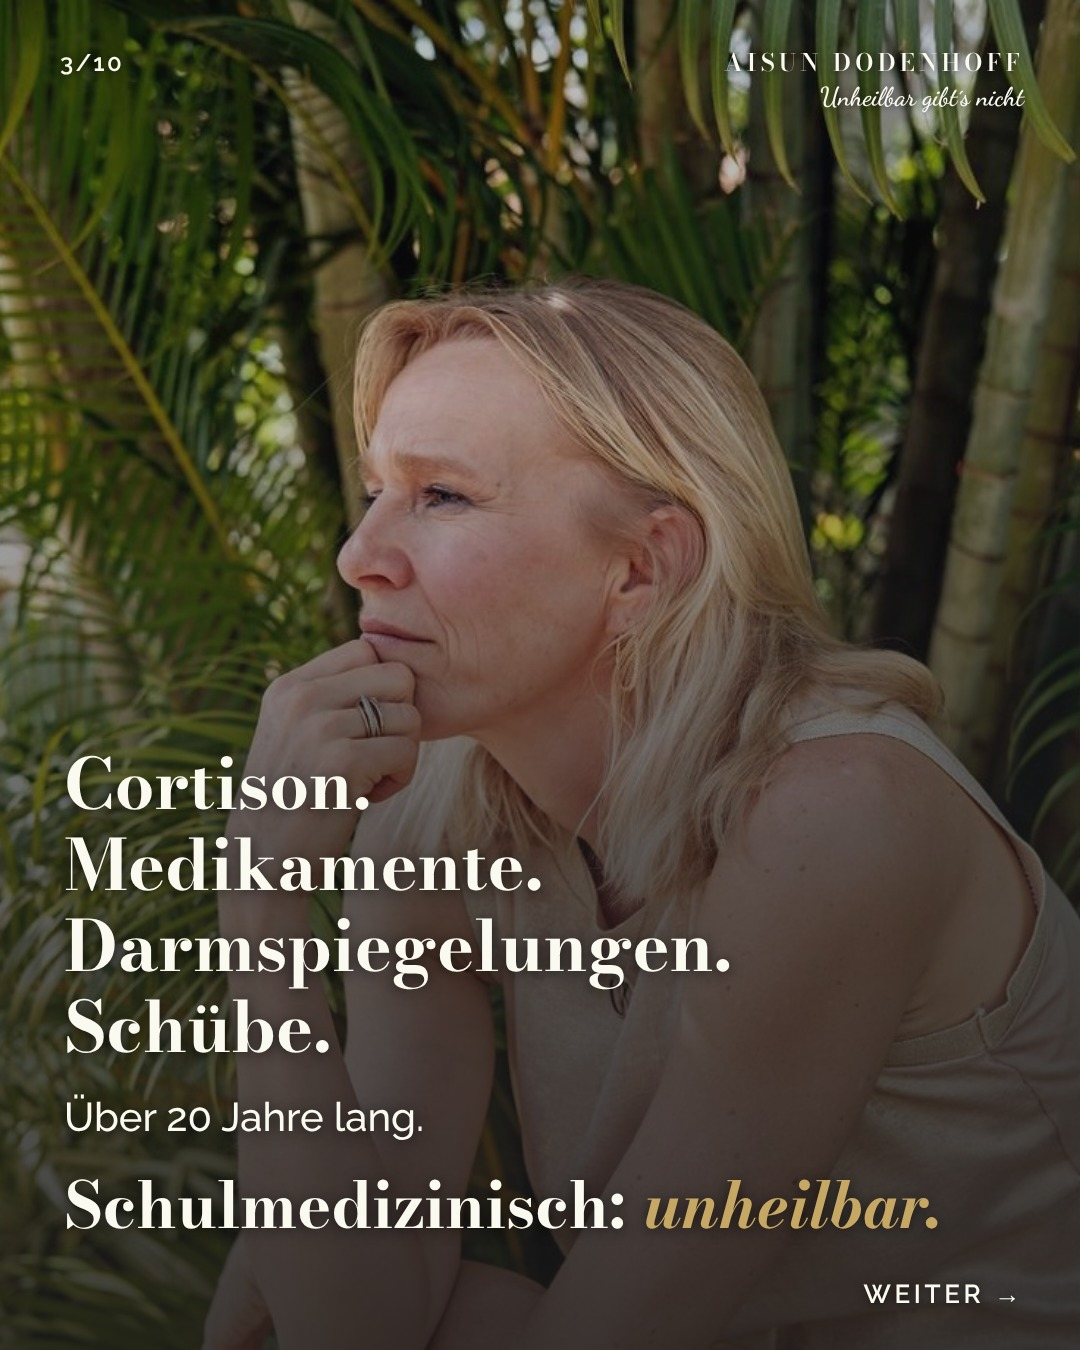
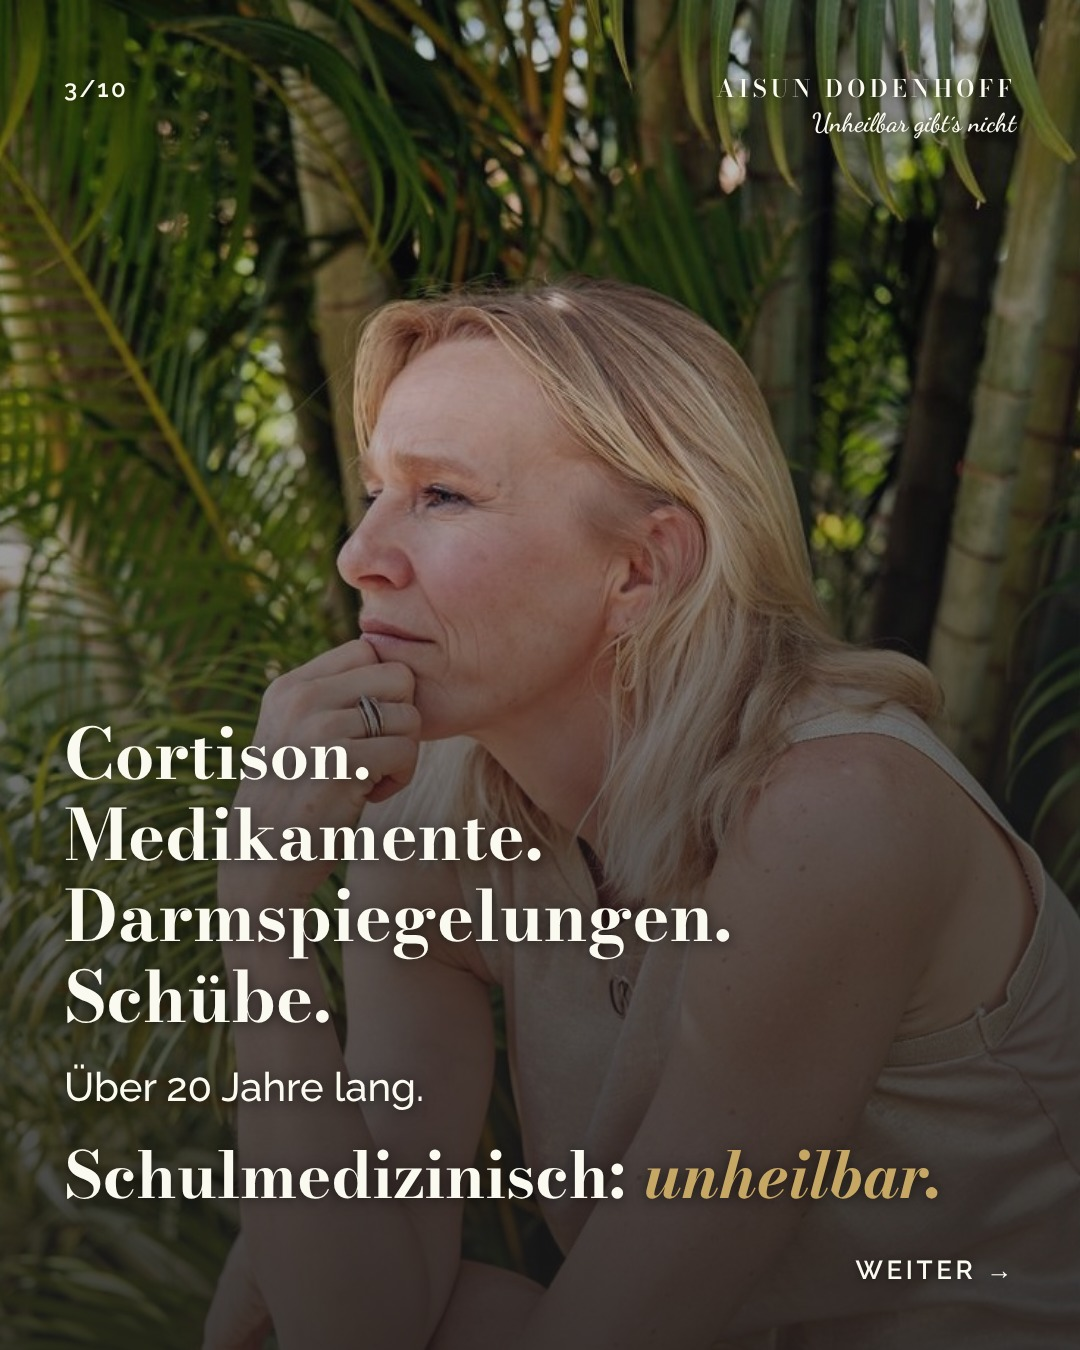
Karussell: Sicherheitsränder (Kopfzeile, Weiter, Textblock) eingerückt

Changed region(s): [[0.0611, 0.5289, 0.9167, 0.9644], [0.6722, 0.0311, 0.9472, 0.1244], [0.0611, 0.0311, 0.1222, 0.0933]]

diff --git a/content/entwuerfe/ueber-mich-story/gen.py b/content/entwuerfe/ueber-mich-story/gen.py
@@ -16,11 +16,11 @@ S=[
 css="""*{margin:0;padding:0;box-sizing:border-box}html,body{width:1080px;height:1350px;overflow:hidden;background:#1A1A1A}
 .bg{position:absolute;inset:0;width:100%;height:100%;object-fit:cover}
 .ov{position:absolute;inset:0}
-.brand{position:absolute;top:44px;right:56px;text-align:right;font-family:'Bodoni Moda',serif;color:#FBFAF0;letter-spacing:.18em;font-size:24px;font-weight:600;text-shadow:0 1px 8px rgba(0,0,0,.6)}
+.brand{position:absolute;top:70px;right:64px;text-align:right;font-family:'Bodoni Moda',serif;color:#FBFAF0;letter-spacing:.18em;font-size:24px;font-weight:600;text-shadow:0 1px 8px rgba(0,0,0,.6)}
 .brand i{display:block;font-family:'Dancing Script',cursive;letter-spacing:0;font-size:26px;font-style:normal}
-.n{position:absolute;top:48px;left:60px;color:#FBFAF0;font:600 24px Raleway;letter-spacing:.1em;text-shadow:0 1px 8px rgba(0,0,0,.6)}
+.n{position:absolute;top:74px;left:64px;color:#FBFAF0;font:600 24px Raleway;letter-spacing:.1em;text-shadow:0 1px 8px rgba(0,0,0,.6)}
 .tx{position:absolute;left:64px;right:64px;color:#FBFAF0;text-shadow:0 2px 14px rgba(0,0,0,.65);display:grid;gap:26px}
-.tx.b{bottom:110px}.tx.t{top:130px}
+.tx.b{bottom:140px}.tx.t{top:175px}
 .tx p{font:500 40px/1.32 Raleway}.tx p.h{font:600 42px/1.3 Raleway}
 .tx h2{font:700 64px/1.1 'Bodoni Moda',serif;font-variation-settings:'opsz' 11}
 .tx h2.m{font-size:76px;text-align:center}
@@ -30,7 +30,7 @@ css="""*{margin:0;padding:0;box-sizing:border-box}html,body{width:1080px;height:
 .yr{font:700 190px/1 'Bodoni Moda',serif;color:#C6A764;font-variation-settings:'opsz' 11}
 .s{font:500 italic 34px Raleway;opacity:.95}
 .kw{justify-self:start;background:linear-gradient(115deg,#a88a4c,#C6A764 30%,#efe2bf 50%,#C6A764 70%,#9d7f43);color:#1A1A1A;font:700 62px Raleway;letter-spacing:.1em;padding:20px 52px;border-radius:999px;text-shadow:none}
-.sw{position:absolute;bottom:40px;right:56px;color:#FBFAF0;font:600 26px Raleway;letter-spacing:.14em;text-shadow:0 1px 8px rgba(0,0,0,.6)}"""
+.sw{position:absolute;bottom:64px;right:64px;color:#FBFAF0;font:600 26px Raleway;letter-spacing:.14em;text-shadow:0 1px 8px rgba(0,0,0,.6)}"""
 head='<!doctype html><html lang="de"><head><meta charset="utf-8"><link href="https://fonts.googleapis.com/css2?family=Bodoni+Moda:ital,opsz,wght@0,6..96,400..800;1,6..96,400..800&family=Raleway:ital,wght@0,500;0,600;0,700;1,500&family=Dancing+Script:wght@500..700&display=swap" rel="stylesheet"><style>'+css+'</style></head><body>'
 for i,(f,pos,dk,anc,html) in enumerate(S,1):
     grad = "linear-gradient(0deg,rgba(26,26,26,.78) 0%,rgba(26,26,26,.55) 38%,rgba(26,26,26,0) 70%)" if anc=="b" else "linear-gradient(180deg,rgba(26,26,26,.78) 0%,rgba(26,26,26,.5) 40%,rgba(26,26,26,0) 72%)"
